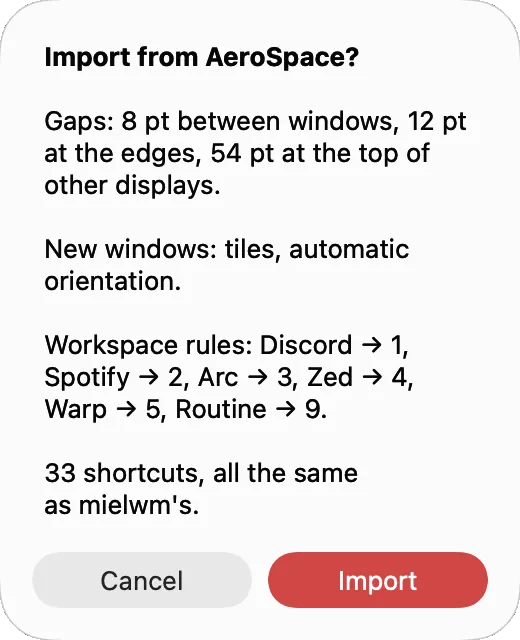
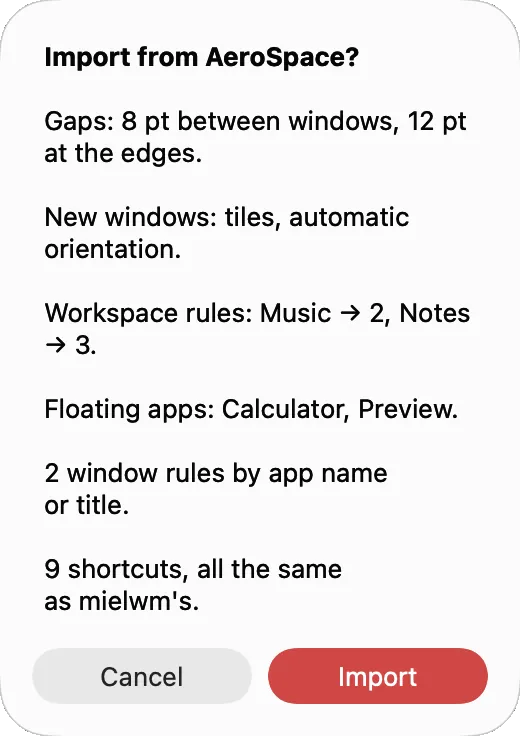
docs: neutral import, menu and welcome screenshots
The import sheet and the welcome window now show a made-up AeroSpace
config with Apple's own apps, and the menu lists only Apple apps. The
homepage's import shot comes from the same capture.

diff --git a/website/src/routes/+page.svelte b/website/src/routes/+page.svelte
@@ -221,7 +221,7 @@ scripts/build-app.sh --install`;
 			</div>
 			<div class="grain flex flex-1 items-center justify-center rounded-[16px] px-6 py-10" style:background={mesh.coral}>
 				<div class="w-full max-w-[18rem] overflow-hidden rounded-[10px] shadow-[0_0_0_1px_rgb(0_0_0/0.12),0_18px_40px_-12px_rgb(0_0_0/0.45)]">
-					<Shot name="import" widths={[520]} width={520} height={640} sizes="18rem" alt="The Import from AeroSpace sheet, listing the gaps, layout and rules it found." />
+					<Shot name="import" widths={[520]} width={520} height={736} sizes="18rem" alt="The Import from AeroSpace sheet, listing the gaps, layout and rules it found." />
 				</div>
 			</div>
 		</section>
